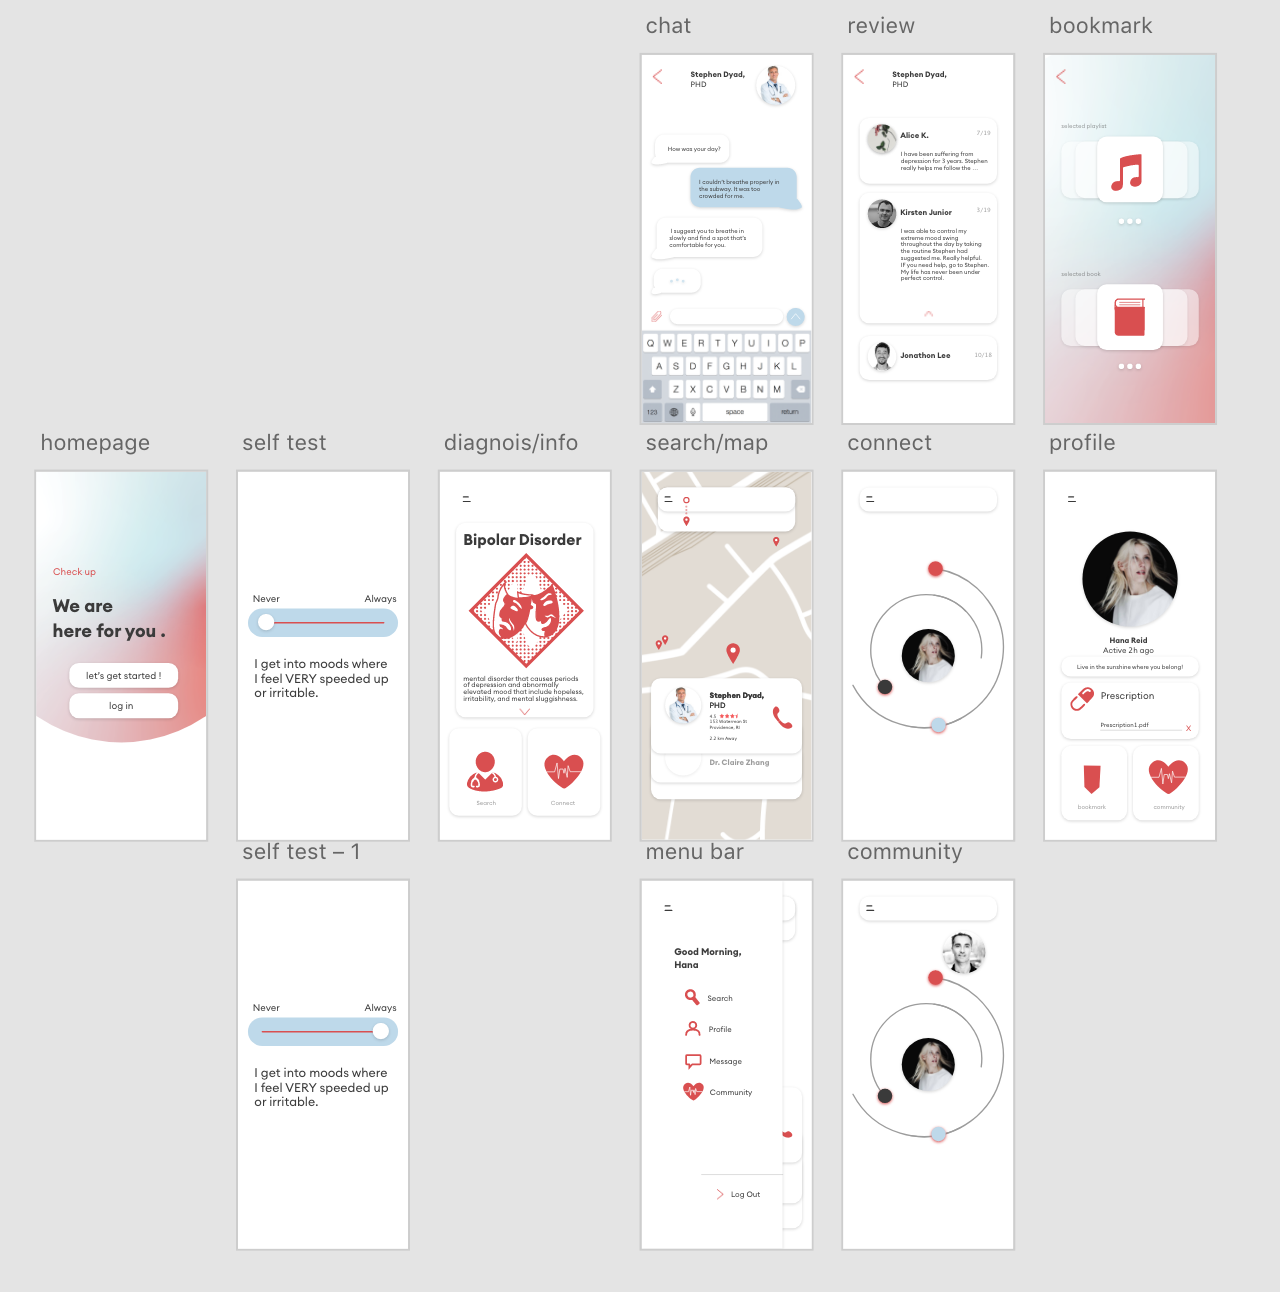
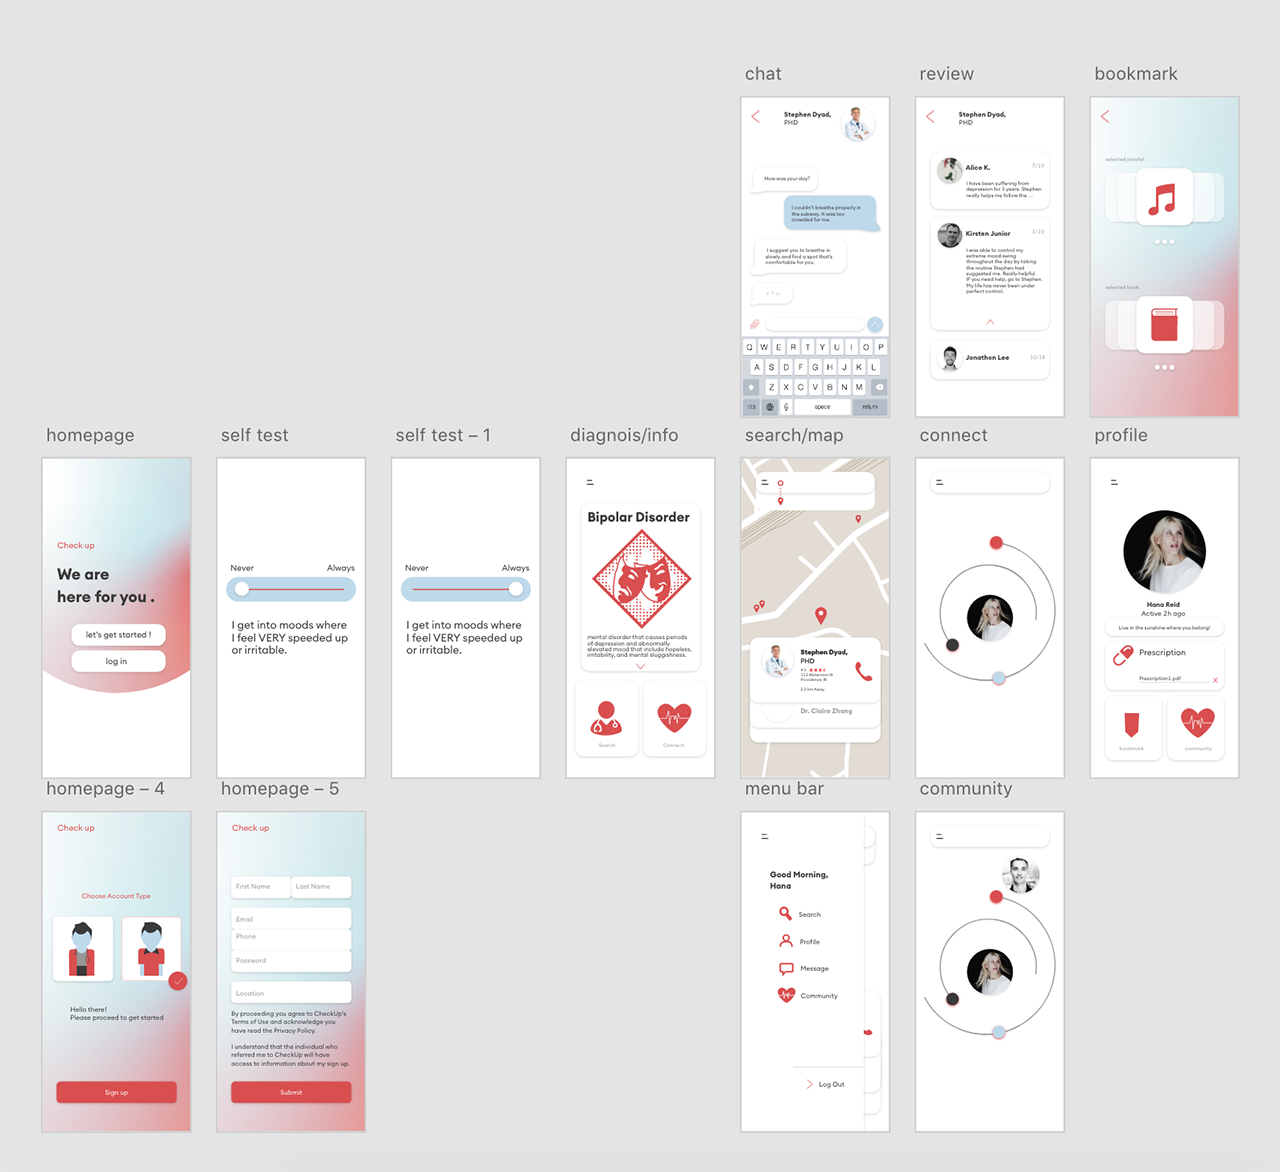
:)

diff --git a/checkup.html b/checkup.html
@@ -33,7 +33,7 @@
 <!---Portfolio--->
 
 <br><br><br>
-<h1>IDEATION</h1>
+<h1 style="color: #D94F50">IDEATION</h1>
  <div class=row>
   <div class=two>
   	<img src="images/mental/planning.jpg" alt="planning">
@@ -41,17 +41,23 @@
   <div class=two>
   	<img src="images/mental/diagram.jpg" alt="diagram">
   </div></div>
-  <h1>PROBLEM</h1>
+  <h1 style="color: #D94F50">PROBLEM</h1>
 <h3>In such fast-changing society, it became common to experience mental disorders frequently as people including celebrities encounter in a lot of social situations. In many cases, they do not receive adequate treatment, miss the Golden Time and fall into chronic mental illness. The lack of information and inconvenience of seeking help cause the patients to hide their feelings and emotions. A continous treatment is needed to lessen the pain.</h3>
+<img src="images/mental/persona.jpg" alt="persona" style="width:70%; height:70%;margin-left:15%; box-shadow:5px 5px 5px 5px lightgrey">
+<h1 style="color: #D94F50">STYLE GUIDE</h1>
 <img src="images/mental/stylesheet.jpg" alt="stylesheet">
 <img src="images/mental/icon.jpg" alt="icon">
+<h1 style="color: #D94F50">GOAL</h1>
+<h3>The app aims to provide a better understanding of what the disease is about and make the treatment process go more efficient. For those who are hestitant to share or unaware of their situations, this app will help them by securing personal information. With social interaction with other patients around, Checkup encourages to help each others.</h3>
+<img src="images/mental/5.jpg" alt="usertype">
 <img src="images/mental/search.jpg" alt="search">
 <img src="images/mental/2.jpg" alt="2">
-<h1>GOAL</h1>
-<h3>The app aims to provide a better understanding of what the disease is about and make the treatment process go more efficient. For those who are hestitant to share or unaware of their situations, this app will help them by securing personal information. With social interaction with other patients around, Checkup encourages to help each others.</h3>
-  	<img src="images/mental/3.png" alt="3">
+<h1 style="color: #D94F50"> Patient's user flow&#8650;</h1>
+    <img src="images/mental/3.png" alt="3" style="width:70%; height:70%;margin-left:15%;">
+<h1 style="color: #D94F50"> Doctor's user flow&#8650;</h1>
+    <img src="images/mental/4.png" alt="3" style="width:70%; height:70%;margin-left:15%;">
   	<img src="images/mental/ui.jpg" alt="ui">
- <h1>SERVICE</h1>
+ <h1 style="color: #D94F50">SERVICE</h1>
  <h3>Through several self-tests and various reviews, the app aims to find the treatment that works best for you. The one-on-one chat service enables real-time equivalents with dedicated doctors and emergency situations, and creates an environment that encourages energy through communication with patients in the immediate area. The entertainment element enables to share freely the recommended playlists and books from professionals or those who share similar mental diorders.</h3>
   <div class=row>
   <div class=two>
@@ -61,6 +67,10 @@
 <img src="images/mental/illustration.jpg" alt="illustration">
 </div></div>
 <h4> * exhibited at 2018 Korean Design Exhibtion</h4>
+<h1 style="color: #D94F50">PROTOTYPE</h1>
+<h3>There are two account type: doctor and individual. The same goal applies but the target of audience, navigation flow, and service differ according to the account type.</h3>
+<h3 style="font-weight: bold"><a href= "https://xd.adobe.com/view/aeee1a85-9d02-4b91-4122-5d64c677afcc-d8df/" target="_blank"> Click here to view prototype for Patient! </a></h3>
+<h3 style="font-weight: bold"><a href= "https://xd.adobe.com/view/d5da97bb-5363-47d5-4707-7fb8db96b13c-a3eb/" target="_blank"> Click here to view prototype for Doctor! </a></h3>
 <!-- <br><br><br> -->
 <!---Back to Menu--->
 <!-- <p><a href= "index.html"><div align="center"> &larr;</div></p> -->
